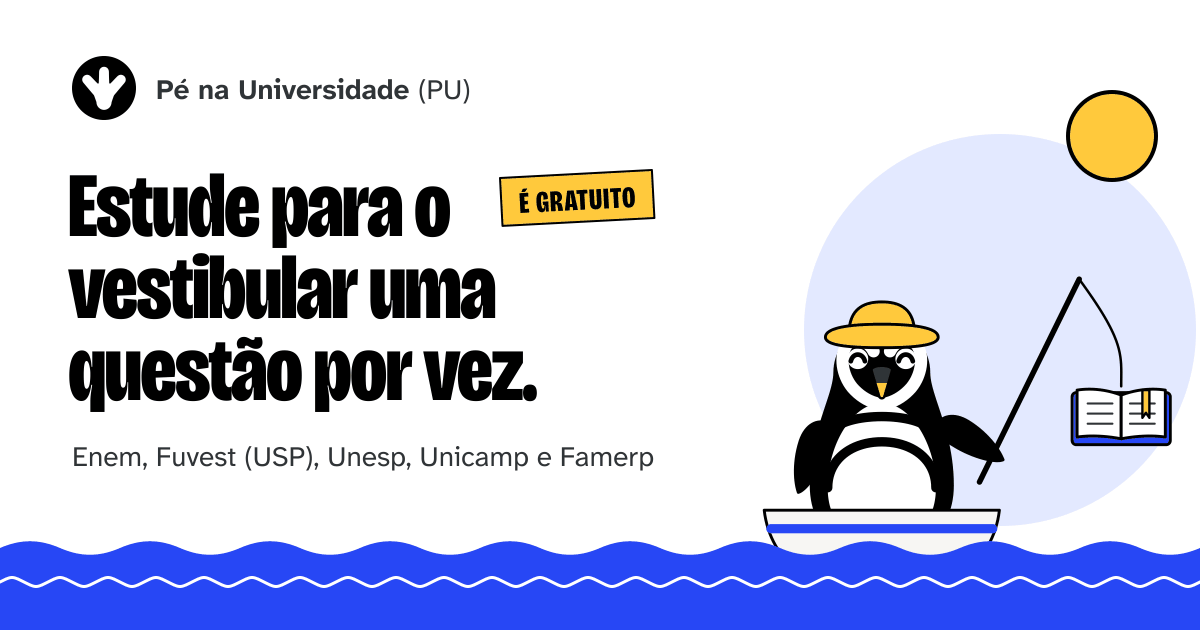
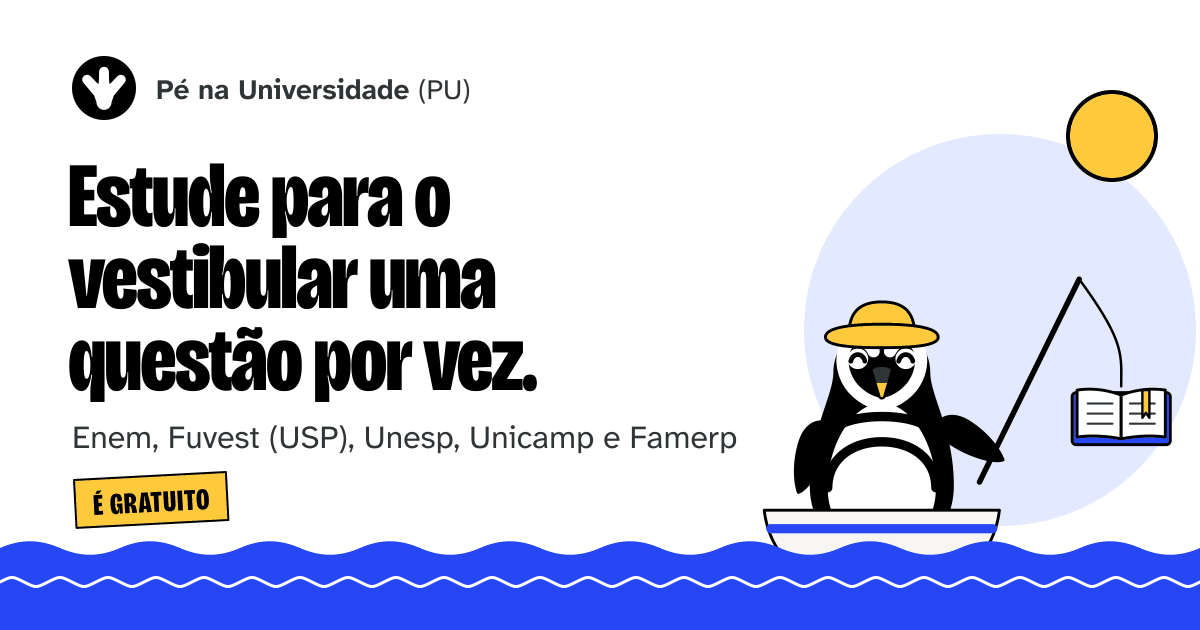
PU: correções da revisão da frente sobras (molde de reserva, Entrar em 320 px, cena maior no celular, imagem de compartilhamento) e item 19 no documento

Changed region(s): [[0.0617, 0.2413, 0.6167, 0.8444], [0.4008, 0.2714, 0.555, 0.3619]]

diff --git a/index.html b/index.html
@@ -3,7 +3,7 @@
 <head>
 <meta charset="utf-8"><meta http-equiv="Content-Security-Policy" content="default-src 'self'; script-src 'self'; style-src 'self'; img-src 'self' data:; connect-src https://enem-ginga-conexao.sabrinaconradoadv.chatgpt.site; object-src 'none'; base-uri 'none'; form-action 'self'"><meta name="viewport" content="width=device-width, initial-scale=1, viewport-fit=cover">
 <meta name="theme-color" content="#FFFFFF"><meta name="description" content="Questões oficiais do Enem, Fuvest (USP), Unesp, Unicamp e Famerp, uma por vez e de graça. O que você erra volta em 1, 3 e 7 dias, com meta pequena por dia, simulado curto e progresso por matéria.">
-<title>Pé na Universidade (PU): estude com questões oficiais do Enem e de vestibulares</title><link rel="canonical" href="https://pu.gingamidia.com/"><meta property="og:type" content="website"><meta property="og:locale" content="pt_BR"><meta property="og:site_name" content="Pé na Universidade (PU)"><meta property="og:title" content="Pé na Universidade (PU): estude com questões oficiais do Enem e de vestibulares"><meta property="og:description" content="Questões oficiais do Enem, Fuvest (USP), Unesp, Unicamp e Famerp, uma por vez e de graça. O que você erra volta em 1, 3 e 7 dias, com meta pequena por dia, simulado curto e progresso por matéria."><meta property="og:url" content="https://pu.gingamidia.com/"><meta property="og:image" content="https://pu.gingamidia.com/icones/pu-compartilhamento.png"><meta property="og:image:type" content="image/png"><meta property="og:image:width" content="1200"><meta property="og:image:height" content="630"><meta property="og:image:alt" content="Pinguim de chapéu pesca um livro num barco. Ao lado, o logo do PU e o texto: Estude para o vestibular uma questão por vez. Enem, Fuvest (USP), Unesp, Unicamp e Famerp. É gratuito."><meta name="twitter:card" content="summary_large_image"><meta name="twitter:image:alt" content="Pinguim de chapéu pesca um livro num barco. Ao lado, o logo do PU e o texto: Estude para o vestibular uma questão por vez. Enem, Fuvest (USP), Unesp, Unicamp e Famerp. É gratuito."><link rel="manifest" href="./manifest.webmanifest"><link rel="icon" href="./icones/pu-32.png" sizes="32x32" type="image/png"><link rel="icon" href="./icones/pu-16.png" sizes="16x16" type="image/png"><link rel="apple-touch-icon" href="./icones/pu-180.png"><meta name="apple-mobile-web-app-title" content="PU"><link rel="stylesheet" href="./app/public/estilo.css?v=202611141357-sobras"><script src="./configuracao-publica.js"></script><script src="./app/public/tema-inicial.js?v=202611141335-provas"></script><script src="./app/public/simulador.js?v=20261109-cofre" defer></script><script src="./app/public/app.js?v=202611141335-provas" defer></script>
+<title>Pé na Universidade (PU): estude com questões oficiais do Enem e de vestibulares</title><link rel="canonical" href="https://pu.gingamidia.com/"><meta property="og:type" content="website"><meta property="og:locale" content="pt_BR"><meta property="og:site_name" content="Pé na Universidade (PU)"><meta property="og:title" content="Pé na Universidade (PU): estude com questões oficiais do Enem e de vestibulares"><meta property="og:description" content="Questões oficiais do Enem, Fuvest (USP), Unesp, Unicamp e Famerp, uma por vez e de graça. O que você erra volta em 1, 3 e 7 dias, com meta pequena por dia, simulado curto e progresso por matéria."><meta property="og:url" content="https://pu.gingamidia.com/"><meta property="og:image" content="https://pu.gingamidia.com/icones/pu-compartilhamento.png"><meta property="og:image:type" content="image/png"><meta property="og:image:width" content="1200"><meta property="og:image:height" content="630"><meta property="og:image:alt" content="Pinguim de chapéu pesca um livro num barco, ao lado do texto: Estude para o vestibular uma questão por vez. É gratuito."><meta name="twitter:card" content="summary_large_image"><meta name="twitter:image:alt" content="Pinguim de chapéu pesca um livro num barco, ao lado do texto: Estude para o vestibular uma questão por vez. É gratuito."><link rel="manifest" href="./manifest.webmanifest"><link rel="icon" href="./icones/pu-32.png" sizes="32x32" type="image/png"><link rel="icon" href="./icones/pu-16.png" sizes="16x16" type="image/png"><link rel="apple-touch-icon" href="./icones/pu-180.png"><meta name="apple-mobile-web-app-title" content="PU"><link rel="stylesheet" href="./app/public/estilo.css?v=202611141406-sobras"><script src="./configuracao-publica.js"></script><script src="./app/public/tema-inicial.js?v=202611141335-provas"></script><script src="./app/public/simulador.js?v=20261109-cofre" defer></script><script src="./app/public/app.js?v=202611141406-sobras" defer></script>
 </head>
 <body class="sem-sessao">
 <a class="pular" href="#principal">Pular para o conteúdo</a>

diff --git a/app/public/index.html b/app/public/index.html
@@ -3,7 +3,7 @@
 <head>
 <meta charset="utf-8"><meta name="viewport" content="width=device-width, initial-scale=1, viewport-fit=cover">
 <meta name="theme-color" content="#FFFFFF"><meta name="description" content="Questões oficiais do Enem, Fuvest (USP), Unesp, Unicamp e Famerp, uma por vez e de graça. O que você erra volta em 1, 3 e 7 dias, com meta pequena por dia, simulado curto e progresso por matéria.">
-<title>Pé na Universidade (PU): estude com questões oficiais do Enem e de vestibulares</title><link rel="canonical" href="https://pu.gingamidia.com/"><meta property="og:type" content="website"><meta property="og:locale" content="pt_BR"><meta property="og:site_name" content="Pé na Universidade (PU)"><meta property="og:title" content="Pé na Universidade (PU): estude com questões oficiais do Enem e de vestibulares"><meta property="og:description" content="Questões oficiais do Enem, Fuvest (USP), Unesp, Unicamp e Famerp, uma por vez e de graça. O que você erra volta em 1, 3 e 7 dias, com meta pequena por dia, simulado curto e progresso por matéria."><meta property="og:url" content="https://pu.gingamidia.com/"><meta property="og:image" content="https://pu.gingamidia.com/icones/pu-compartilhamento.png"><meta property="og:image:type" content="image/png"><meta property="og:image:width" content="1200"><meta property="og:image:height" content="630"><meta property="og:image:alt" content="Pinguim de chapéu pesca um livro num barco. Ao lado, o logo do PU e o texto: Estude para o vestibular uma questão por vez. Enem, Fuvest (USP), Unesp, Unicamp e Famerp. É gratuito."><meta name="twitter:card" content="summary_large_image"><meta name="twitter:image:alt" content="Pinguim de chapéu pesca um livro num barco. Ao lado, o logo do PU e o texto: Estude para o vestibular uma questão por vez. Enem, Fuvest (USP), Unesp, Unicamp e Famerp. É gratuito."><link rel="stylesheet" href="/estilo.css?v=202611141357-sobras"><script src="/tema-inicial.js?v=202611141335-provas"></script><script src="/simulador.js?v=20261109-cofre" defer></script><script src="/app.js?v=202611141335-provas" defer></script>
+<title>Pé na Universidade (PU): estude com questões oficiais do Enem e de vestibulares</title><link rel="canonical" href="https://pu.gingamidia.com/"><meta property="og:type" content="website"><meta property="og:locale" content="pt_BR"><meta property="og:site_name" content="Pé na Universidade (PU)"><meta property="og:title" content="Pé na Universidade (PU): estude com questões oficiais do Enem e de vestibulares"><meta property="og:description" content="Questões oficiais do Enem, Fuvest (USP), Unesp, Unicamp e Famerp, uma por vez e de graça. O que você erra volta em 1, 3 e 7 dias, com meta pequena por dia, simulado curto e progresso por matéria."><meta property="og:url" content="https://pu.gingamidia.com/"><meta property="og:image" content="https://pu.gingamidia.com/icones/pu-compartilhamento.png"><meta property="og:image:type" content="image/png"><meta property="og:image:width" content="1200"><meta property="og:image:height" content="630"><meta property="og:image:alt" content="Pinguim de chapéu pesca um livro num barco, ao lado do texto: Estude para o vestibular uma questão por vez. É gratuito."><meta name="twitter:card" content="summary_large_image"><meta name="twitter:image:alt" content="Pinguim de chapéu pesca um livro num barco, ao lado do texto: Estude para o vestibular uma questão por vez. É gratuito."><link rel="stylesheet" href="/estilo.css?v=202611141406-sobras"><script src="/tema-inicial.js?v=202611141335-provas"></script><script src="/simulador.js?v=20261109-cofre" defer></script><script src="/app.js?v=202611141406-sobras" defer></script>
 </head>
 <body class="sem-sessao">
 <a class="pular" href="#principal">Pular para o conteúdo</a>

diff --git a/app/public/estilo.css b/app/public/estilo.css
@@ -302,7 +302,7 @@ body.sem-sessao .topo { background: #FFFFFF; border-bottom-color: var(--tinta); 
 /* Link "Entrar" do topo: só com a entrada desenhada; leva ao formulário no fim da página. */
 .entrar-topo { display: none; }
 body.sem-sessao:has(#conteudo > .entrada:not([data-estatica])) .entrar-topo {
-  display: inline-flex; align-items: center; min-height: 2.75rem; padding: .5rem 1rem; border: 1px solid var(--tinta); border-radius: 8px;
+  display: inline-flex; align-items: center; flex-shrink: 0; white-space: nowrap; min-height: 2.75rem; padding: .5rem 1rem; border: 1px solid var(--tinta); border-radius: 8px;
   background: #FFFFFF; color: var(--tinta); font-weight: 700; text-decoration: none; transition: background-color 200ms var(--troca);
 }
 @media (hover:hover) and (pointer:fine) { body.sem-sessao .entrar-topo:hover { background: var(--amarelo-claro); } }
@@ -341,7 +341,7 @@ body.sem-sessao:has(#conteudo > .entrada:not([data-estatica])) .entrar-topo {
   font-family: var(--fonte-cartaz); font-weight: 800; font-size: 1.25rem; letter-spacing: .04em; text-transform: uppercase; rotate: -3deg; }
 /* Cena do topo (frente sobras): o SVG e o pescador ocupam a mesma caixa, de proporção fixa (sem deslocamento ao carregar a imagem).
    A base da caixa é a linha d'água; o mar é a .mar-topo, na largura toda, por cima do casco, do círculo e da boia. */
-.cena-mar { position: relative; width: 100%; max-width: 15rem; aspect-ratio: 360 / 172; justify-self: center; align-self: end; }
+.cena-mar { position: relative; width: 100%; max-width: 19rem; aspect-ratio: 360 / 172; justify-self: center; align-self: end; }
 .cena-mar svg { position: absolute; inset: 0; width: 100%; height: 100%; overflow: visible; }
 .cena-mar svg * { vector-effect: non-scaling-stroke; stroke-linejoin: round; stroke-linecap: round; }
 .pescador { position: absolute; left: 6.667%; top: 26.57%; width: 41.667%; aspect-ratio: 460 / 429; background: url("ilustracoes/pescador-livro.webp") 0 0 / 100% 100% no-repeat; }

diff --git a/app/public/app.js b/app/public/app.js
@@ -534,7 +534,7 @@ const MOLDE_ENTRADA = (() => {
   const copia = bloco.cloneNode(true); copia.removeAttribute('data-estatica'); return copia.outerHTML;
 })();
 // Sem o bloco (index.html antigo), a entrada fica só com o título, a demonstração e o formulário.
-const MOLDE_RESERVA = `<div class="entrada"><div class="faixa faixa-papel"><section class="apresentacao" id="apresentacao"><h1>Estude para o Enem uma questão por vez.</h1></section></div>
+const MOLDE_RESERVA = `<div class="entrada"><div class="faixa faixa-papel"><section class="apresentacao" id="apresentacao"><h1>Estude para o vestibular uma questão por vez.</h1></section></div>
 <div data-lugar="faixa-que-corre"></div><div class="faixa faixa-areia"><section class="experimente" id="experimente"><h2 id="titulo-experimente">Experimente uma questão</h2><div data-lugar="demonstracao"></div></section></div>
 <div class="faixa faixa-sol-claro"><section class="chamada" id="entrar"><div class="formulario" data-lugar="formulario"></div></section></div></div>`;
 // Provas no ar: fonte única da lista "Provas no PU" da entrada. Conferido em 14/11/2026 no catálogo novo da frente provas

diff --git a/docs/PLATAFORMA-FLUIDA.md b/docs/PLATAFORMA-FLUIDA.md
@@ -40,6 +40,7 @@ Nada aqui foi medido com estudantes reais do PU. São hipóteses de produto.
 16. **Página de entrada de 14/11/2026.** A apresentação ficou maior e com a densidade mais alta do PU, na ordem do plano de páginas: topo (título de cartaz, apoio, tarja "É gratuito" e uma cena do mar com sol, boia e um livro na linha de pesca), faixa que corre, questão de demonstração, como funciona em três passos, o que você ganha (nove benefícios, cada um com o que a pessoa ganha e como o PU entrega), provas no PU, por que estudar assim (Dunlosky e colegas, 2013, com o aviso de que não foi medido com estudantes do PU), perguntas frequentes, e a chamada única com o formulário de entrar ou criar conta e a frase de privacidade da frente seguranca. Elementos desenhados em código, sem imagem: faixas na largura toda (papel, areia, laranja-claro, azul-mar-claro, amarelo-claro e uma saturada azul-mar), ondas, selos (livro, visto, calendário, capelo, lápis, boia, peixe), trilha de pegadas com a pata do logo e números de cartaz. Três cores de decoração: azul-mar, amarelo-sol e laranja-boia. Duas fontes, Bricolage e Atkinson, até Dominique responder sobre as outras duas. O texto mora num bloco igual nos dois `index.html`, que a busca lê sem JavaScript e que o `app.js` usa como molde (`MOLDE_ENTRADA`); o bloco fica escondido até o `app.js` decidir, para quem tem sessão guardada abrir direto na questão. A lista de provas vem de `PROVAS_NO_AR` no `app.js`, o único lugar a atualizar quando uma edição entrar no catálogo publicado. `/?criar-conta` abre a entrada já no cadastro (para links de outras páginas), `#entrar` e `#criar-conta` levam ao formulário, e o topo da entrada ganhou um link "Entrar"; sem rota nova. Título, descrição, endereço canônico e dados de compartilhamento revistos nos dois `index.html` (imagem de compartilhamento: o ícone de 512 px, até existir a de 1200 × 630). Medida no Chrome sem janela (celular 390 px, CPU 4x, 1,6 Mb/s, 150 ms, sem cache, texto com gzip, mediana de 9, antes e depois em seguida): primeiro desenho 500 → 484 ms, entrada desenhada 893 → 1.023 ms (entre +130 e +250 ms conforme a rodada), maior desenho 500 → 1.332 ms (antes contava só o topo; agora é o título, depois da fonte chegar), deslocamento de layout 0 → 0,018, peso 50,9 → 116,6 KB com gzip (57,5 KB são as duas fontes, que quem já tem conta não baixa). A pré-carga das fontes foi medida e retirada: levava o primeiro desenho a 784 ms e faria quem tem conta baixar fontes que as telas de dentro ainda não usam.
 17. **Telas de dentro de 14/11/2026.** A densidade nova chegou às telas depois do login, por tipo de tela. As telas de passagem (progresso, simulado antes de começar e resultado, nota, conta, dados e segurança, meta cumprida) abrem com uma faixa na cor da tela, na largura toda e com a base em onda, o título de cartaz em Bricolage 800 e um selo próprio (alvo, cronômetro, capelo, livro, peixe e, na nota, lápis), fora da leitura de tela e que entra em 0,4 s. Uma cor de decoração conduz cada tela, pelo atributo `data-tom` do `#conteudo`, e o cartão do próximo passo segue a faixa da tela: progresso e dados em azul-mar, simulado em laranja-boia (também enquanto corrige), conta em roxo-ipê, nota em amarelo-sol e a meta cumprida em rosa-goiaba; o progresso passa a roxo-ipê quando a pessoa encerrou o dia depois da meta. No progresso, o número de questões de hoje vira número de cartaz num disco, e os dias da semana viram uma trilha de pegadas (pata do logo no dia estudado, traço no dia sem estudo, com "estudado" ou "sem estudo" para o leitor de tela). Estudar e a folha da questão ficaram contidas: só a Atkinson, neutros e cores de sentido; o acerto ganhou borda sólida de 2 px e um visto ao lado da letra, o erro borda tracejada de 2 px e um X. Ilustrações de pinguins (`app/public/ilustracoes/`, oito cenas em versão diurna e `-noite`) entram pelo CSS, pela cena (`data-cena`) e pelo tema: progresso (vazio, início do dia, revisão ou dia encerrado), simulado, conta (perto do tema), meta cumprida, revisão vazia, falta de conexão e correção do simulado. Têm tamanho reservado (120 px no celular e 160 no computador; 160 na meta cumprida), arquivo de 320 px (o dobro do maior uso), carregam em segundo plano e nunca aparecem com a questão na tela; dentro de Estudar só os estados sem questão as mostram (meta cumprida, revisão vazia e falha ao abrir a questão), e trocar um desenho é trocar o arquivo de mesmo nome, sem mexer no código. As telas de espera mostram o logo da pata, na versão clara (círculo claro com a pata vazada) no noturno. Paleta noturna final: os valores da tabela "Papéis" da nota de identidade, nos dois temas, com as variáveis de sempre; o teste mede todo par de texto e fundo e todo texto visível das telas de dentro nos dois temas. Duas famílias, Bricolage e Atkinson, até Dominique responder sobre as outras duas; nas telas de dentro, uma reserva local (Arial negrito a 70%) segura a largura do título até a Bricolage chegar. O rodapé fica invisível até a primeira tela ser desenhada: era todo o deslocamento de layout medido ao abrir. Medida no Chrome sem janela (celular 390 px, CPU 4x, 1,6 Mb/s, 150 ms, sem cache HTTP, conta guardada no aparelho, servidor local sem gzip, mediana de 9; `dados/dentro/medir-dentro.mjs` na pasta das frentes): CSS e JS com gzip 52,1 → 56,8 KB, primeira questão na tela 1.426 → 1.446 ms (+20 ms), primeiro desenho 724 → 772 ms (o CSS bruto cresceu cerca de 10 KB e o servidor local não comprime), deslocamento de layout ao abrir 0,05 → 0 em Estudar e 0,076 → 0 no progresso. Com a questão aberta, a tela Estudar não baixa a Bricolage nem nenhuma ilustração; a meta cumprida baixa as duas. O desenho a partir do que está guardado no aparelho não mudou.
 18. **Provas que a pessoa vai prestar (14/11/2026).** Na Conta, logo abaixo da faixa, um cartão por prova do catálogo (Enem, Fuvest (USP), Unesp, Unicamp, Famerp, só as que existem nele), com caixa de marcar nativa, nome em Bricolage, edições e número de questões em Atkinson, faixa de cima numa cor de decoração e, marcado, o fundo da cor da tela com o visto. Todas marcadas por padrão; a última não desmarca (aviso na linha de estado). A escolha vale para o estudo do dia, a revisão, o simulado e o progresso pelo contrato de `docs/PROVAS.md`, sem rota nova: grava por `POST /api/dispositivos {"acao": "provas"}`, que agora devolve o painel novo na mesma viagem. Desligar é na hora: o painel traz as faixas de IDs de cada prova e o `app.js` tira as questões da prova desligada da fila, da revisão, do índice, do foco e das que faltam no simulado em andamento antes de o servidor responder; ligar espera o painel novo. Marcar várias seguidas gasta uma viagem (meio segundo de espera antes de enviar); se a gravação falha, a tela volta ao que o servidor tem e oferece "Tentar de novo". Cada questão já dizia a prova e a edição no título; o conjunto ganhou a edição no alto e a correção ganhou "Questão da prova <edição>" com o link do caderno oficial da banca (`fonteNome`), e a busca da resolução usa a edição certa. A lista "Provas no PU" da entrada (`PROVAS_NO_AR`) passou ao catálogo novo: cinco provas, 2.452 questões; só pode ir ao ar junto com a troca do catálogo. Medida com o catálogo inteiro pelo endereço público, intermediário simulado com 3 s por viagem, celular 390 px e CPU 4x, mediana de 5 (`dados/provas-interface/medir-provas.mjs`, antes = ramo provas sem a tela): primeira questão 98 → 102 ms, troca de questão 8 → 8 ms (uma viagem ou nenhuma, como antes), abrir a Conta 46 → 53 ms; desligar uma prova some da tela em 6 ms e o servidor confirma em 3,5 s (uma viagem), sem nenhuma questão da prova desligada no painel; religar confirma em 3,5 s.
+19. **Sobras da entrada (14/11/2026).** No topo, o pescador da identidade (`app/public/ilustracoes/pescador-livro.webp`, 460 px, 13,6 KB, feito no PhotoCraft no traço das outras cenas) fica de pé num barco e puxa o livro na linha. A cena virou uma caixa de proporção fixa (`.cena-mar`, 360 × 172), com o SVG e o pescador um sobre o outro, então a imagem chega sem deslocar nada. O mar saiu do SVG e virou a faixa `.mar-topo`, de uma borda à outra da tela, com a crista em onda por máscara e a espuma branca; ela cobre o casco, a boia e a base do círculo. Antes, o mar terminava em corte reto nas laterais da cena. Imagem de compartilhamento de 1200 × 630 (`icones/pu-compartilhamento.png`, 33 KB) com `og:image:width`, `og:image:height`, `og:image:alt`, `twitter:card` `summary_large_image` e `twitter:image:alt`. O título, a descrição e a abertura da entrada passaram a nomear as cinco provas. O link "Entrar" do topo não quebra mais em 320 px. Medida (mesma condição do item 16, mediana de 7): peso com gzip 126,3 → 140,4 KB (13,6 KB são o pescador), primeiro desenho 644 → 652 ms, maior desenho 1.500 → 1.580 ms, deslocamento de layout 0,018 → 0,021.
 
 ## Servidor e rede
 
@@ -82,3 +83,4 @@ Nada aqui foi medido com estudantes reais do PU. São hipóteses de produto.
 - 14/11/2026 11:09 · Dominique-Oliveira-Claude🤖🧡 · Item 13: tema antes do primeiro quadro pelo `tema-inicial.js` (servido nas quatro listas de estáticos: aplicação, `/site/`, gerenciador e ambiente individual) e item do teste com o app.js atrasado de propósito. **Por quê:** o item "primeiro quadro sem clarão" oscilava porque o clarão branco no noturno era real, em cerca de 3 de 40 recargas; achado na integração 2.
 - 14/11/2026 12:10 · Dominique-Oliveira-Claude🤖🧡 · Acrescentado o item 17 (telas de dentro com faixa da cor da tela, cartaz, selos, ilustrações por tema, pegadas e paleta noturna final), com a medida antes e depois e as correções da revisão independente (cartão do próximo passo na cor da tela, simulado em laranja-boia também ao corrigir, título centrado na ilustração no computador, selo preso à última palavra). Lista de verificação com 50 itens no navegador. **Por quê:** pedido de Dominique Oliveira🐧❤ de levar a densidade visual nova às telas depois do login.
 - 14/11/2026 12:58 · Dominique-Oliveira-Claude🤖🧡 · Acrescentado o item 18 (escolha das provas na Conta, desligar na hora pelas faixas de IDs, painel na resposta da gravação, origem de cada questão, provas da entrada com o catálogo novo e medida antes e depois) e seis itens no teste de navegador (56 itens). Ainda não publicado. **Por quê:** frente provas-interface do pedido de Dominique Oliveira🐧❤ de 14/11/2026.
+- 14/11/2026 14:12 · Dominique-Oliveira-Claude🤖🧡 · Acrescentado o item 19 (pescador e mar de borda a borda no topo, imagem de compartilhamento de 1200 × 630, texto com as cinco provas) e três verificações no teste de navegador, dentro do item da entrada (mar até as bordas em 390, 768 e 1440, pescador na caixa reservada, metadados e arquivo da imagem). **Por quê:** frente sobras do pedido de Dominique Oliveira🐧❤.
